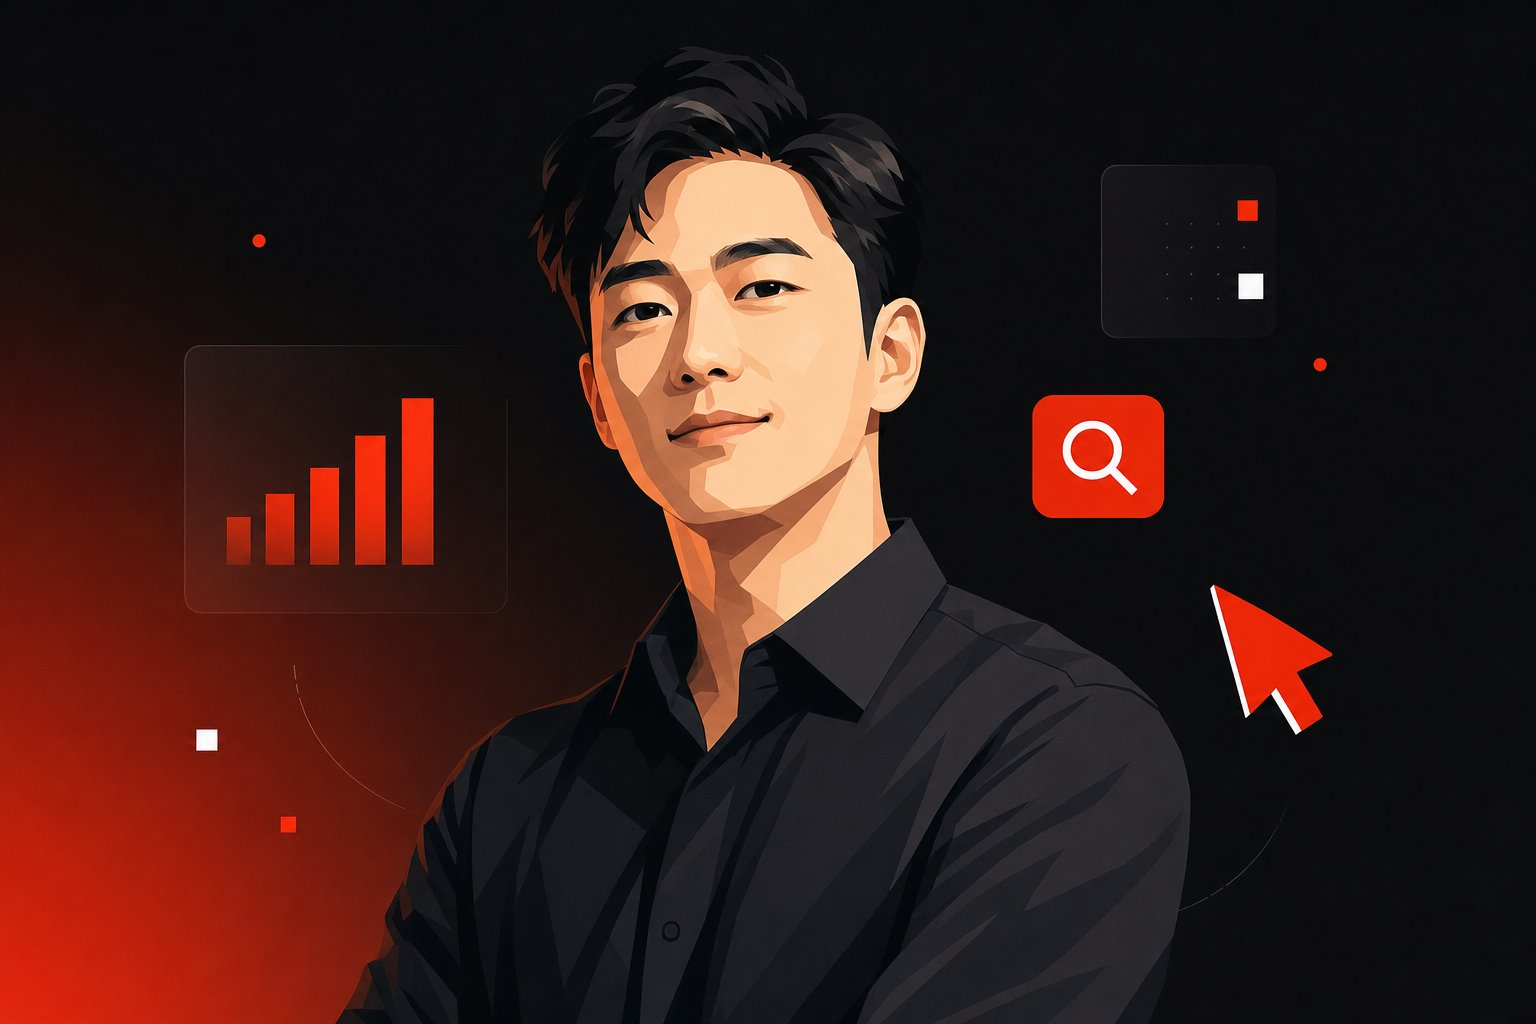
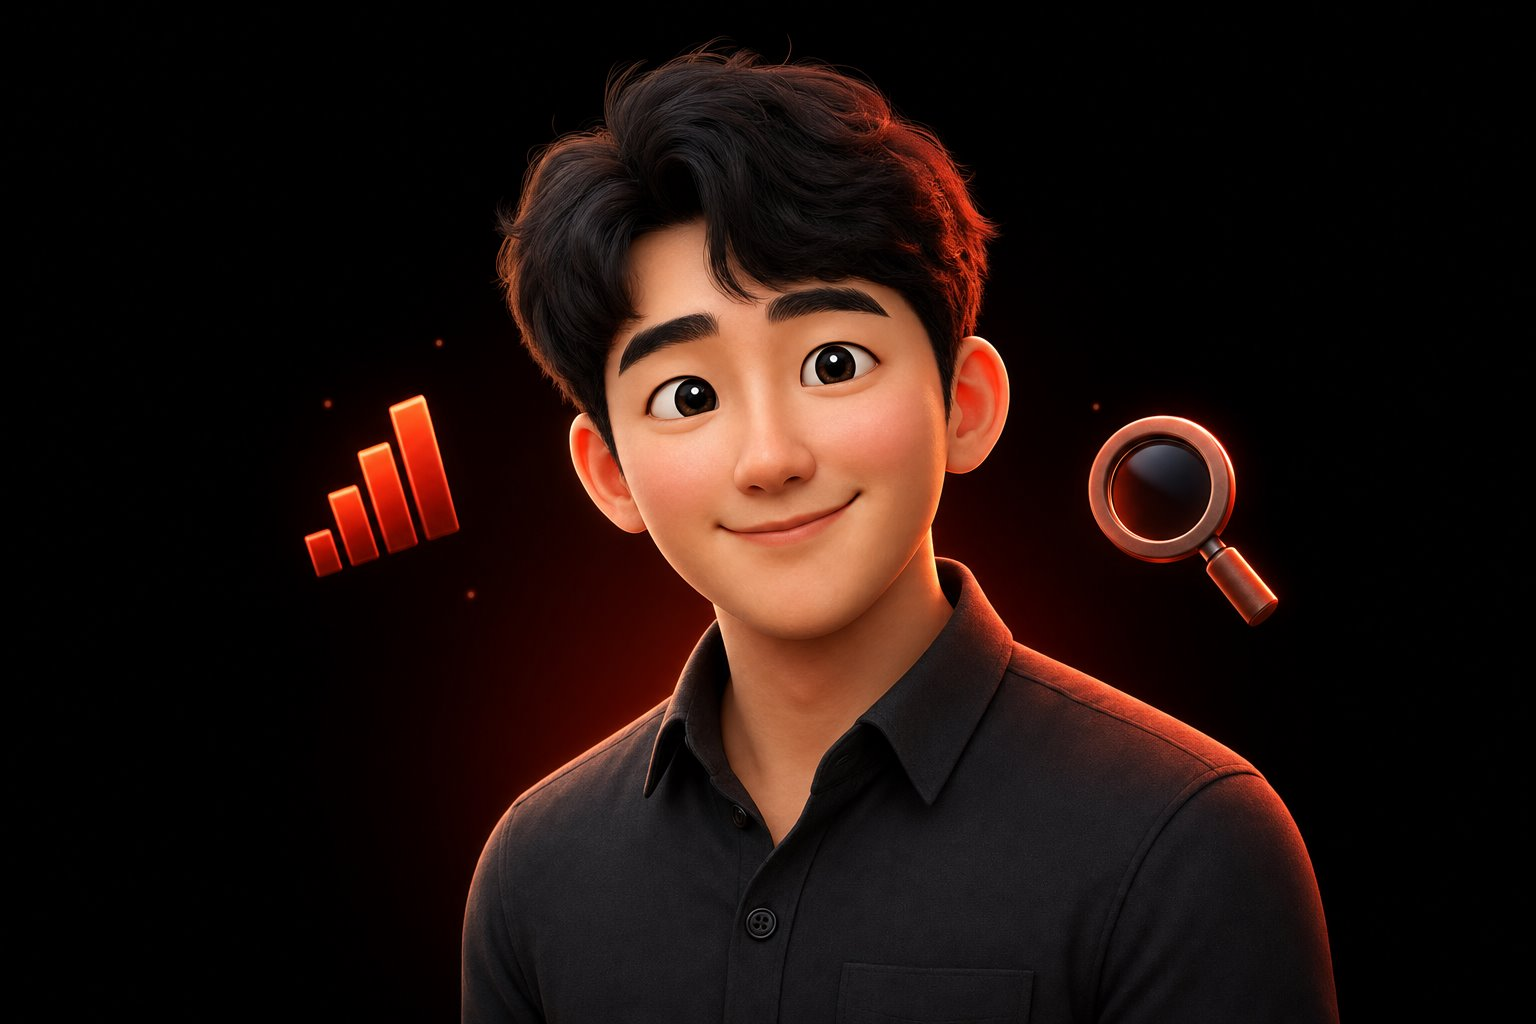
모바일 인터랙션 패키지 + 아바타 교체 (픽사풍 cute)
- 스크롤 드리븐 시차(spar): CSS animation-timeline, 카드가 스크롤 따라 떠오름
- 방법론 모바일=스티키 스크롤텔링(MethodSticky): 고정 화면에서 4단계 전환
- 성과 지표 모바일=가로 스냅 캐러셀 + 넘김 힌트
- 터치 기기: 글로우 자율 유영(glow-drift), 탭 스프링
- 히어로 자이로 패럴랙스(iOS 권한 버튼 포함)
- About 아바타를 픽사풍 애니메이션 캐릭터로 교체(gpt-image-2)
- reduced-motion 전면 대응, tsc·오버플로 검증

diff --git a/app/page.tsx b/app/page.tsx
@@ -3,6 +3,7 @@ import SiteNav from "./components/SiteNav";
 import HeroV2 from "./components/HeroV2";
 import Reveal from "./components/Reveal";
 import Tilt from "./components/Tilt";
+import MethodSticky from "./components/MethodSticky";
 import CountUp from "./components/CountUp";
 import Magnet from "./components/Magnet";
 import { profile, metrics, evidence, projects, projectGroups, career, skills, about, type Project } from "./data";
@@ -36,10 +37,11 @@ function Metrics() {
             법률·전문직 고관여 시장에서 만든 실제 전환 성과.
           </p>
         </Reveal>
-        <Reveal className="mt-12 grid grid-cols-2 gap-px border border-line bg-line md:grid-cols-3" stagger>
+        {/* 모바일: 가로 스냅 캐러셀 / 데스크톱: 그리드 */}
+        <Reveal className="no-scrollbar mt-12 flex snap-x snap-mandatory gap-px overflow-x-auto border border-line bg-line md:grid md:grid-cols-3 md:overflow-visible" stagger>
           {metrics.map((m) => (
-            <div key={m.label} className="group bg-surface p-5 transition-colors hover:bg-[#16161a] md:p-7">
-              <div className="whitespace-nowrap text-[1.9rem] font-extrabold tracking-tight sm:text-4xl md:text-[2.6rem]">
+            <div key={m.label} className="group w-[74vw] shrink-0 snap-center bg-surface p-6 transition-colors hover:bg-[#16161a] md:w-auto md:shrink md:p-7">
+              <div className="whitespace-nowrap text-4xl font-extrabold tracking-tight md:text-[2.6rem]">
                 <CountUp value={m.value} />
               </div>
               <div className="mt-3 font-bold">{m.label}</div>
@@ -49,6 +51,7 @@ function Metrics() {
             </div>
           ))}
         </Reveal>
+        <p className="mt-3 text-xs text-faint md:hidden">옆으로 넘겨 보세요 →</p>
       </div>
     </section>
   );
@@ -70,7 +73,7 @@ function MarketingResults() {
         <div className="mt-12 space-y-8">
           {evidence.map((e) => (
             <Reveal key={e.title}>
-              <Tilt max={2.5} className="grid gap-6 border border-line bg-surface p-5 md:grid-cols-[1.3fr_1fr] md:p-6">
+              <Tilt max={2.5} className="spar grid gap-6 border border-line bg-surface p-5 md:grid-cols-[1.3fr_1fr] md:p-6">
                 {/* 증거 이미지 (없으면 플레이스홀더) */}
                 {e.src ? (
                   <div className="overflow-hidden border border-line bg-black/30">
@@ -173,7 +176,8 @@ function Method() {
             위의 숫자들은 우연이 아니라, 이 순서를 지킨 결과입니다.
           </p>
         </Reveal>
-        <Reveal className="mt-12 grid gap-px border border-line bg-line sm:grid-cols-2 lg:grid-cols-4" stagger>
+        {/* 데스크톱: 4열 그리드 */}
+        <Reveal className="mt-12 hidden gap-px border border-line bg-line sm:grid sm:grid-cols-2 lg:grid-cols-4" stagger>
           {METHOD_STEPS.map((st) => (
             <div key={st.n} className="group relative overflow-hidden bg-surface p-6 transition-colors hover:bg-[#16161a] md:p-7">
               <div
@@ -190,6 +194,8 @@ function Method() {
           ))}
         </Reveal>
       </div>
+      {/* 모바일: 스티키 스크롤텔링 */}
+      <MethodSticky steps={METHOD_STEPS} className="sm:hidden" />
     </section>
   );
 }
@@ -288,7 +294,7 @@ function Projects() {
               <div className="mt-7 grid gap-6 md:grid-cols-2">
                 {items.map((p) => (
                   <Reveal key={p.title}>
-                    <Tilt max={4} className="h-full">
+                    <Tilt max={4} className="spar h-full">
                       <ProjectCard p={p} />
                     </Tilt>
                   </Reveal>

diff --git a/app/components/HeroV2.tsx b/app/components/HeroV2.tsx
@@ -2,9 +2,14 @@
 
 // HeroV2 — 다크 프리미엄(Vivid Motion) × 3D 카드 클라우드(Michael Gatt) × 연출 레이어.
 // 지표·태그는 data.ts 실측값을 그대로 사용한다.
-import { useEffect, useRef } from "react";
+import { useEffect, useRef, useState } from "react";
 import { profile, metrics } from "../data";
 import s from "./HeroV2.module.css";
+
+// iOS는 자이로 접근에 사용자 제스처 승인이 필요
+type DOEventCtor = typeof DeviceOrientationEvent & {
+  requestPermission?: () => Promise<"granted" | "denied">;
+};
 
 const CLOUD_METRICS = [metrics[0], metrics[1], metrics[2], metrics[4]]; // 60% / 45% / 600건+ / 월 100건+
 const CLOUD_TAGS = ["변제금 진단 리드 퍼널", "발행 스튜디오 · SEO 대시보드", "콘텐츠 운영 자동화 도구"];
@@ -26,6 +31,20 @@ function parseValue(v: string) {
 export default function HeroV2() {
   const heroRef = useRef<HTMLElement>(null);
   const cloudRef = useRef<HTMLDivElement>(null);
+  const [needGyroPerm, setNeedGyroPerm] = useState(false);
+
+  // 자이로 패럴랙스 — 폰을 기울이면 카드 클라우드가 기운다 (마우스 패럴랙스의 모바일 등가물)
+  const attachGyro = () => {
+    const cloud = cloudRef.current;
+    if (!cloud) return;
+    const clamp = (v: number, m: number) => Math.max(-m, Math.min(m, v));
+    const onOrient = (e: DeviceOrientationEvent) => {
+      const g = clamp(e.gamma ?? 0, 28);
+      const b = clamp((e.beta ?? 45) - 45, 28);
+      cloud.style.transform = `rotateY(${g * 0.4}deg) rotateX(${-b * 0.3}deg) translateX(${g * -1.1}px) translateY(${b * -0.7}px)`;
+    };
+    addEventListener("deviceorientation", onOrient, { passive: true });
+  };
 
   useEffect(() => {
     const hero = heroRef.current!;
@@ -54,7 +73,15 @@ export default function HeroV2() {
 
     if (rm) return;
 
-    // 클라우드 패럴랙스 (글로우·그레인은 전역 FxLayer가 담당)
+    // 터치 기기: 자이로 패럴랙스 (iOS는 승인 버튼 경유)
+    if (matchMedia("(pointer: coarse)").matches && typeof DeviceOrientationEvent !== "undefined") {
+      const ctor = DeviceOrientationEvent as DOEventCtor;
+      if (typeof ctor.requestPermission === "function") setNeedGyroPerm(true);
+      else attachGyro();
+      return;
+    }
+
+    // 데스크톱: 마우스 클라우드 패럴랙스 (글로우·그레인은 전역 FxLayer가 담당)
     const onMove = (e: MouseEvent) => {
       const x = e.clientX / innerWidth - 0.5;
       const y = e.clientY / innerHeight - 0.5;
@@ -62,7 +89,17 @@ export default function HeroV2() {
     };
     hero.addEventListener("mousemove", onMove);
     return () => hero.removeEventListener("mousemove", onMove);
+    // eslint-disable-next-line react-hooks/exhaustive-deps
   }, []);
+
+  const grantGyro = async () => {
+    try {
+      const ctor = DeviceOrientationEvent as DOEventCtor;
+      const res = await ctor.requestPermission!();
+      if (res === "granted") attachGyro();
+    } catch {}
+    setNeedGyroPerm(false);
+  };
 
   // headline: "…검색을 장악하고,\n…" → 줄 분리 + '장악' 강조
   const lines = profile.headline.split("\n").map((ln) =>
@@ -114,6 +151,16 @@ export default function HeroV2() {
           <a href="#contact" className={s.ctaGhost}>연락처</a>
         </div>
       </div>
+
+      {needGyroPerm && (
+        <button
+          type="button"
+          onClick={grantGyro}
+          className={s.gyroBtn}
+        >
+          📱 기울여보세요
+        </button>
+      )}
 
       <div className={s.marquee} aria-hidden>
         <div className={s.mq}>

diff --git a/app/components/MethodSticky.tsx b/app/components/MethodSticky.tsx
@@ -1,0 +1,75 @@
+"use client";
+
+// 모바일 전용 스크롤텔링 — 방법론 4단계를 화면에 고정하고 스크롤로 전환 (애플 제품 페이지 문법)
+import { useEffect, useRef, useState } from "react";
+
+export type MethodStep = { n: string; title: string; desc: string };
+
+export default function MethodSticky({
+  steps,
+  className = "",
+}: {
+  steps: MethodStep[];
+  className?: string;
+}) {
+  const wrapRef = useRef<HTMLDivElement>(null);
+  const [idx, setIdx] = useState(0);
+
+  useEffect(() => {
+    const el = wrapRef.current!;
+    const onScroll = () => {
+      const r = el.getBoundingClientRect();
+      const total = el.offsetHeight - innerHeight;
+      if (total <= 0) return;
+      const p = Math.min(0.999, Math.max(0, -r.top / total));
+      setIdx(Math.floor(p * steps.length));
+    };
+    onScroll();
+    addEventListener("scroll", onScroll, { passive: true });
+    return () => removeEventListener("scroll", onScroll);
+  }, [steps.length]);
+
+  return (
+    <div ref={wrapRef} className={className} style={{ height: `${steps.length * 85 + 40}svh` }}>
+      <div className="sticky top-16 flex h-[calc(100svh-64px)] flex-col justify-center overflow-hidden px-6">
+        {/* 스텝 카드 (크로스페이드) */}
+        <div className="relative min-h-[300px]">
+          {steps.map((st, i) => (
+            <div
+              key={st.n}
+              className="absolute inset-0 flex flex-col justify-center transition-all duration-500"
+              style={{
+                opacity: i === idx ? 1 : 0,
+                transform: i === idx ? "translateY(0)" : i < idx ? "translateY(-26px)" : "translateY(26px)",
+                transitionTimingFunction: "cubic-bezier(.16,1,.3,1)",
+                pointerEvents: i === idx ? "auto" : "none",
+              }}
+            >
+              <div
+                aria-hidden
+                className="pointer-events-none absolute -top-14 right-0 text-[9rem] font-extrabold leading-none text-transparent"
+                style={{ WebkitTextStroke: "1.4px rgba(230,58,15,0.3)" }}
+              >
+                {st.n}
+              </div>
+              <div className="text-[13px] font-bold text-accent">{st.n}</div>
+              <h3 className="mt-2 text-[2rem] font-extrabold leading-tight text-white">{st.title}</h3>
+              <p className="mt-4 max-w-[34ch] text-[15px] leading-relaxed text-sub">{st.desc}</p>
+            </div>
+          ))}
+        </div>
+        {/* 진행 표시 */}
+        <div className="mt-10 flex items-center gap-2">
+          {steps.map((st, i) => (
+            <span
+              key={st.n}
+              className="h-[3px] flex-1 transition-colors duration-300"
+              style={{ background: i <= idx ? "#E63A0F" : "#28282C" }}
+            />
+          ))}
+        </div>
+        <p className="mt-3 text-xs text-faint">스크롤해서 다음 단계 보기</p>
+      </div>
+    </div>
+  );
+}

diff --git a/app/globals.css b/app/globals.css
@@ -107,9 +107,58 @@ body {
   animation: bandmq 28s linear infinite;
 }
 
+/* ── 모바일 인터랙션 레이어 ───────────────────────────── */
+
+/* 스크롤 드리븐 시차 — 스크롤 위치가 곧 타임라인 (지원 브라우저 한정, 폴백 안전) */
+@supports (animation-timeline: view()) {
+  @media (max-width: 768px) and (prefers-reduced-motion: no-preference) {
+    .spar {
+      animation: spar linear both;
+      animation-timeline: view();
+      animation-range: entry 0% cover 32%;
+    }
+    @keyframes spar {
+      from { opacity: 0.25; transform: translateY(42px) scale(0.965); filter: blur(3px); }
+      to { opacity: 1; transform: none; filter: blur(0); }
+    }
+    /* 이미지가 살짝 더 깊게 움직이는 2겹 시차 */
+    .spar-deep {
+      animation: spardeep linear both;
+      animation-timeline: view();
+      animation-range: entry 0% cover 55%;
+    }
+    @keyframes spardeep {
+      from { transform: translateY(26px); }
+      to { transform: translateY(-6px); }
+    }
+  }
+}
+
+/* 가로 스냅 캐러셀 스크롤바 숨김 */
+.no-scrollbar { scrollbar-width: none; -ms-overflow-style: none; }
+.no-scrollbar::-webkit-scrollbar { display: none; }
+
+/* 터치 기기: 커서가 없으니 글로우가 스스로 유영 */
+@media (pointer: coarse) {
+  .glow-drift { animation: glowdrift 16s ease-in-out infinite alternate; }
+}
+@keyframes glowdrift {
+  0% { transform: translate(-18vw, 4vh) scale(1); }
+  35% { transform: translate(28vw, 28vh) scale(1.12); }
+  70% { transform: translate(-6vw, 58vh) scale(0.94); }
+  100% { transform: translate(30vw, 82vh) scale(1.08); }
+}
+
+/* 탭 스프링 — 터치의 손맛 */
+@media (pointer: coarse) {
+  .card:active, .fcard-tap:active { transform: scale(0.982); transition: transform 0.12s ease-out; }
+}
+
 @media (prefers-reduced-motion: reduce) {
   .reveal, .reveal.stagger > * { opacity: 1; transform: none; filter: none; transition: none; }
   .rise { animation: none; }
   .bandmq { animation: none; }
   .fxgrain { animation: none; }
+  .glow-drift { animation: none; }
+  .spar, .spar-deep { animation: none; }
 }

diff --git a/app/components/FxLayer.tsx b/app/components/FxLayer.tsx
@@ -21,6 +21,14 @@ export default function FxLayer() {
     addEventListener("scroll", onScroll, { passive: true });
     if (rm) return () => removeEventListener("scroll", onScroll);
 
+    // 터치 기기: 커서가 없으니 글로우가 스스로 유영 (CSS 애니메이션)
+    if (matchMedia("(pointer: coarse)").matches) {
+      glow.style.left = "0px";
+      glow.style.top = "0px";
+      glow.classList.add("glow-drift");
+      return () => removeEventListener("scroll", onScroll);
+    }
+
     let mx = innerWidth / 2, my = innerHeight * 0.4, gx = mx, gy = my, raf = 0;
     const onMove = (e: MouseEvent) => { mx = e.clientX; my = e.clientY; };
     addEventListener("mousemove", onMove, { passive: true });

diff --git a/app/components/HeroV2.module.css b/app/components/HeroV2.module.css
@@ -192,6 +192,23 @@
 }
 .ctaGhost:hover { background: rgba(255, 255, 255, 0.1); }
 
+/* 자이로 승인 버튼 (iOS) */
+.gyroBtn {
+  position: absolute;
+  bottom: 64px;
+  right: 16px;
+  z-index: 3;
+  font-size: 12px;
+  color: #fff;
+  background: rgba(17, 17, 17, 0.8);
+  border: 1px solid #363636;
+  border-radius: 999px;
+  padding: 9px 14px;
+  backdrop-filter: blur(4px);
+  animation: fadeup 0.8s cubic-bezier(0.16, 1, 0.3, 1) 1.3s both;
+}
+.gyroBtn:active { transform: scale(0.96); }
+
 /* 하단 키워드 마키 */
 .marquee {
   position: absolute;
